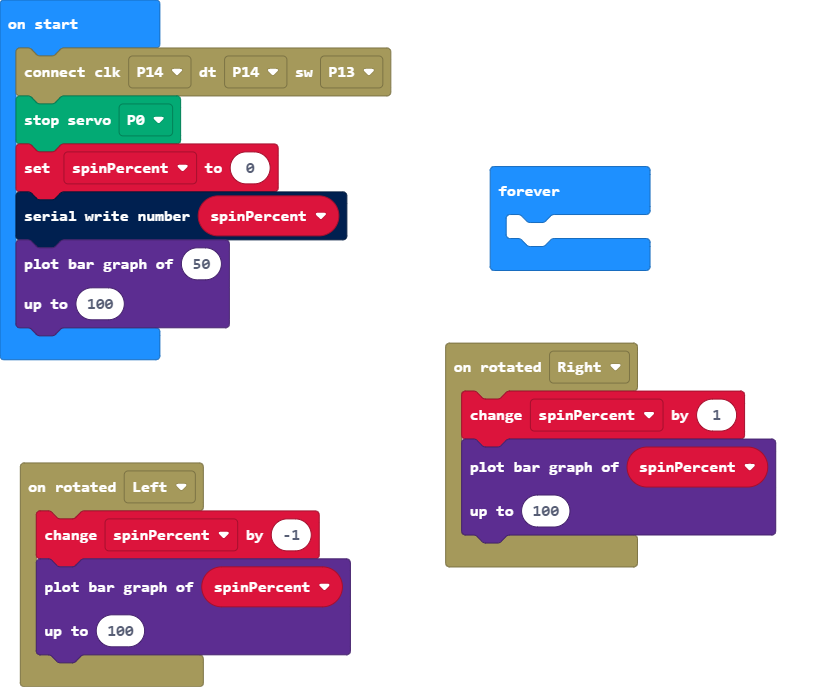
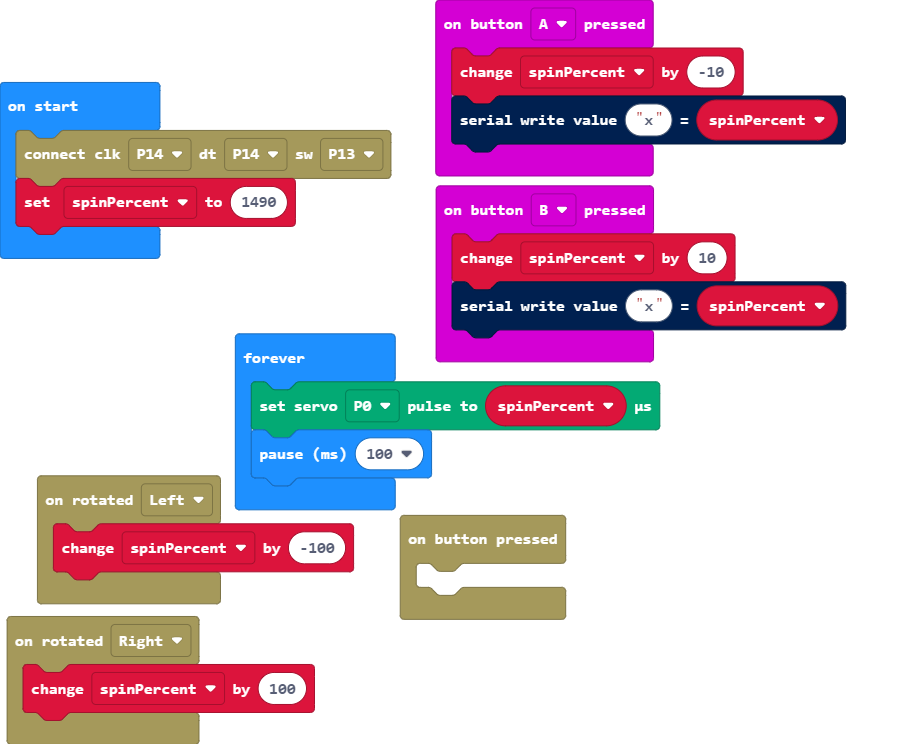
centered

diff --git a/main.ts b/main.ts
@@ -1,26 +1,24 @@
 RotaryEncoder.onRotateEvent(RotationDirection.Left, function () {
-    spinPercent += -1
-    led.plotBarGraph(
-    spinPercent,
-    100
-    )
+    spinPercent += -100
+})
+RotaryEncoder.onPressEvent(function () {
+	
+})
+input.onButtonPressed(Button.A, function () {
+    spinPercent += -10
+    serial.writeValue("x", spinPercent)
+})
+input.onButtonPressed(Button.B, function () {
+    spinPercent += 10
+    serial.writeValue("x", spinPercent)
 })
 RotaryEncoder.onRotateEvent(RotationDirection.Right, function () {
-    spinPercent += 1
-    led.plotBarGraph(
-    spinPercent,
-    100
-    )
+    spinPercent += 100
 })
 let spinPercent = 0
 RotaryEncoder.init(Pins.P14, Pins.P14, Pins.P13)
-servos.P0.stop()
-spinPercent = 0
-serial.writeNumber(spinPercent)
-led.plotBarGraph(
-50,
-100
-)
+spinPercent = 1490
 basic.forever(function () {
-	
+    servos.P0.setPulse(spinPercent)
+    basic.pause(100)
 })
